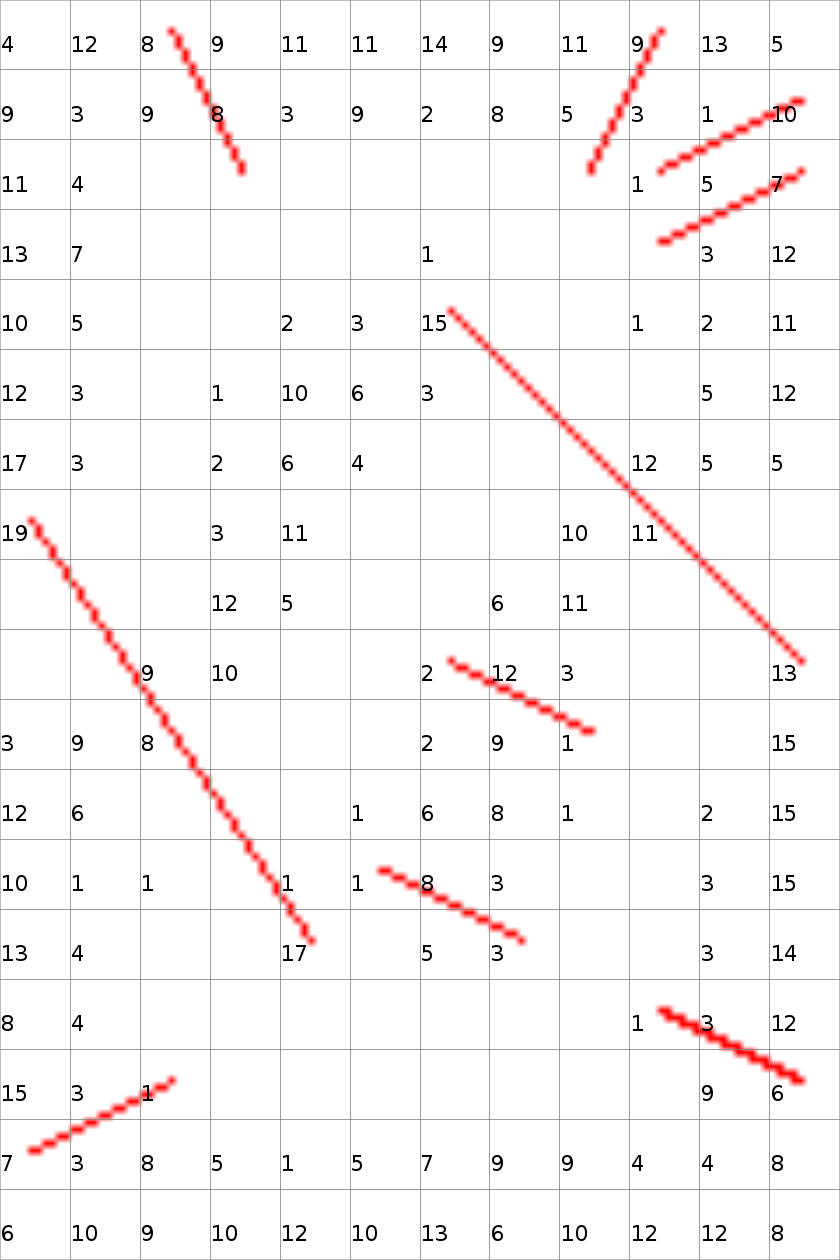
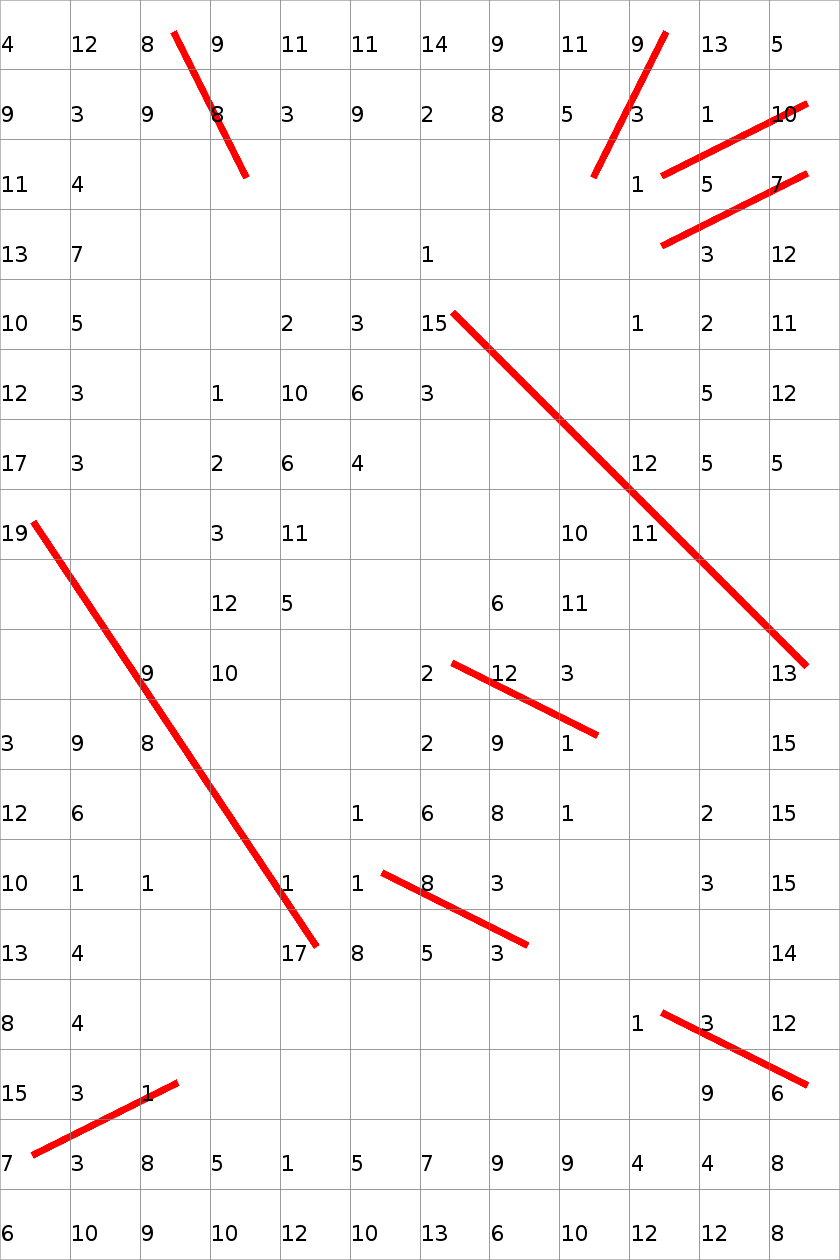
adjusted background of qe/mqe adjusted stroke size distortion added setVisualisationParameter exported some more images

diff --git a/ex3-protocol/main.tex b/ex3-protocol/main.tex
@@ -122,14 +122,16 @@ to mark the activation. It then updates the weight vector of every node by assig
 data samples in the neighborhood.
 
 Since the algorithms are so similar we decided not to duplicate the SOM training code contained in \lstinline!GrowingLayer! but
-rather just abstract the distance measures. Both strategies mentioned earlier solely rely on the distance measure in the grid geometry.
+rather just abstract the distance measures. The main advantage of our approach is that all features of the growing layer (such as adding and removing columns for a non static SOM) can now also be used with a hexagonal grid.
+
+Both strategies mentioned earlier solely rely on the distance measure in the grid geometry.
 Figure~\ref{fig:hci-coord-rect} illustrates the rectangular distance measurement.
 The inner dashed circle has an euclidean distance of $\sqrt{1} = 1$ to
 the unit center at position $(1,1)$. The geometry layout in the code does not calculate the distance from the center of
-the unit square, but from the corner (lower left). The distance for the second dashed circle has an euclidean distance of $\sqrt(2) \approx 1.14$ and finally the last circle has a distance from the unit (1/1) of $\sqrt{4} = 2$.
+the unit square, but from the corner (lower left). The distance for the second dashed circle has an euclidean distance of $\sqrt{2} \approx 1.14$ and finally the last circle has a distance from the unit (1/1) of $\sqrt{4} = 2$.
 
 To achieve the same distances in a hexagonal grid our approach is visualized in Figure~\ref{fig:hci-coord-hex}.
-The inner circle has a distance of $\sqrt{1} = 1$ to all of his 6 neighbors. To achieve this distance metric 
+The inner circle has a distance of $1$ to all of his 6 neighbors. To achieve this distance metric 
 we use the rectangular unit space which with an unit $u$ from any neighboring unit. The hexagon grid forces deformation
 of the shapes the following formulas are used to calculate the grid.
 
@@ -261,34 +263,65 @@ Figure~\ref{fig:hci-coord-hex} and~\ref{fig:hci-coord-rect} show the activation 
 
 \section{Visualisation}
 
+We have picked two data sets that we will compare in the Sections~\ref{sec:iris} and~\ref{sec:chain-link}. In the following we compiled a list of visualizations that we modified to work for both grid systems.
+
+\begin{itemize}
+	\item Activity Histogram
+	\item Hit Histogram
+	\item U-Matrix
+	\item D-Matrix
+	\item P-Matrix
+	\item Fuzzy Colouring
+	\item Neighbourhood Graph radius
+	\item Neighbourhood Graph KNN (K-nearest neighbour)
+	
+	\item Quantization Error
+	\item Mean Quantization Error
+	\item Topographic Error (4/8 units)
+\end{itemize}
+
+In every Figure we show the rectangular SOM on the left and the hexagonal on the right hand side.
 
 \newcommand{\cmprecthex}[5]
 {
-    \begin{figure}
-        \begin{subfigure}{0.49\linewidth}
-            \includegraphics*[width=\linewidth]{img/#1-#2}
-            \caption{#5}
-            \label{fig:#1-#2-rect}
-        \end{subfigure}
-        \begin{subfigure}{0.49\linewidth}
-            \includegraphics[width=\linewidth]{img/#1-#2-hex}
-            \caption{#4}
-            \label{fig:#1-#2-hex}
-        \end{subfigure}
-        \caption{#3}
-        \label{fig:#1-#2}
-    \end{figure}
+	\begin{figure}
+		\begin{subfigure}{0.49\linewidth}
+			\includegraphics*[width=\linewidth]{img/#1-#2}
+			\caption{#5}
+			\label{fig:#1-#2-rect}
+		\end{subfigure}
+		\begin{subfigure}{0.49\linewidth}
+			\includegraphics[width=\linewidth]{img/#1-#2-hex}
+			\caption{#4}
+			\label{fig:#1-#2-hex}
+		\end{subfigure}
+		\caption{#3}
+		\label{fig:#1-#2}
+	\end{figure}
 }
+
+
+\subsection{Iris}
+\label{sec:iris}
+
+\subsection{Chain Link}
+\label{sec:chain-link}
 
 \cmprecthex{cl}{activity}{Activity histogram. Default referent unit}{Hexagonal}{Rectangular}
 \cmprecthex{cl}{dmatrix}{D-Matrix}{Hexagonal}{Rectangular}
 \cmprecthex{cl}{pmatrix}{P-Matrix}{Hexagonal}{Rectangular}
 \cmprecthex{cl}{umatrix}{U-Matrix}{Hexagonal}{Rectangular}
 \cmprecthex{cl}{dist}{Distortion}{Hexagonal}{Rectangular}
-\cmprecthex{cl}{qe}{Distortion}{Hexagonal}{Rectangular}
-\cmprecthex{cl}{mqe}{Distortion}{Hexagonal}{Rectangular}
+\cmprecthex{cl}{qe}{QE}{Hexagonal}{Rectangular}
+\cmprecthex{cl}{mqe}{MQE}{Hexagonal}{Rectangular}
 \cmprecthex{cl}{mqe}{Topo 4}{Hexagonal}{Rectangular}
 \cmprecthex{cl}{fuzzy-colouring}{Fuzzy coloring}{Hexagonal}{Rectangular}
+\cmprecthex{cl}{nh-knn-1}{Neighbourhood KNN 1}{Hexagonal}{Rectangular}
+\cmprecthex{cl}{nh-knn-2}{Neighbourhood KNN 2}{Hexagonal}{Rectangular}
+\cmprecthex{cl}{nh-knn-3}{Neighbourhood KNN 3}{Hexagonal}{Rectangular}
+\cmprecthex{cl}{nh-radius-0,1}{Neighbourhood Graph Radius 0.1}{Hexagonal}{Rectangular}
+\cmprecthex{cl}{nh-radius-0,2}{Neighbourhood Graph Radius 0.2}{Hexagonal}{Rectangular}
+\cmprecthex{cl}{nh-radius-0,3}{Neighbourhood Graph Radius 0.3}{Hexagonal}{Rectangular}
 
 
 

diff --git a/ex3/src/core/at/tuwien/ifs/somtoolbox/visualization/MappingDistortionVisualizer.java b/ex3/src/core/at/tuwien/ifs/somtoolbox/visualization/MappingDistortionVisualizer.java
@@ -17,9 +17,7 @@
  */
 package at.tuwien.ifs.somtoolbox.visualization;
 
-import java.awt.BasicStroke;
-import java.awt.Color;
-import java.awt.Graphics2D;
+import java.awt.*;
 import java.awt.geom.Line2D;
 import java.awt.image.BufferedImage;
 
@@ -30,6 +28,7 @@ import at.tuwien.ifs.somtoolbox.data.SOMVisualisationData;
 import at.tuwien.ifs.somtoolbox.layers.Unit;
 import at.tuwien.ifs.somtoolbox.layers.grid.GridGeometry;
 import at.tuwien.ifs.somtoolbox.models.GrowingSOM;
+import at.tuwien.ifs.somtoolbox.util.ImageUtils;
 
 /**
  * @author Michael Dittenbach
@@ -74,11 +73,8 @@ public class MappingDistortionVisualizer extends AbstractBackgroundImageVisualiz
         // future?
         // FIXME: sparsity!!!!!!!!!!!!!!!!!!!!!!!!!!!
 
-        BufferedImage res = new BufferedImage(width, height, BufferedImage.TYPE_INT_RGB);
+        BufferedImage res = ImageUtils.createEmptyImage(width, height);
         Graphics2D g = (Graphics2D) res.getGraphics();
-        g.setColor(Color.WHITE);
-        g.setPaint(Color.WHITE);
-        g.fillRect(0, 0, width, height);
 
         GridGeometry helper = gsom.getLayer().getGridGeometry();
 
@@ -86,7 +82,7 @@ public class MappingDistortionVisualizer extends AbstractBackgroundImageVisualiz
         double unitHeight = helper.adjustUnitHeight(MapPNode.DEFAULT_UNIT_WIDTH, MapPNode.DEFAULT_UNIT_HEIGHT) / getPreferredScaleFactor();
 
         g.setColor(Color.RED);
-        g.setStroke(new BasicStroke(0.3f));
+        g.setStroke(new BasicStroke((float) (unitWidth/10)));
         for (int d = 0; d < data.numVectors(); d++) {
             Unit[] winners = gsom.getLayer().getWinners(data.getInputDatum(d), 2);
             if (helper.getMapDistance(winners[0], winners[1]) > Math.sqrt(2)) {
@@ -105,11 +101,8 @@ public class MappingDistortionVisualizer extends AbstractBackgroundImageVisualiz
         }
         // FIXME: sparsity!!!!!!!!!!!!!!!!!!!!!!!!!!!
 
-        BufferedImage res = new BufferedImage(width, height, BufferedImage.TYPE_INT_RGB);
+        BufferedImage res = ImageUtils.createEmptyImage(width, height);
         Graphics2D g = (Graphics2D) res.getGraphics();
-        g.setColor(Color.WHITE);
-        g.setPaint(Color.WHITE);
-        g.fillRect(0, 0, width, height);
 
         GridGeometry helper = gsom.getLayer().getGridGeometry();
 
@@ -117,7 +110,7 @@ public class MappingDistortionVisualizer extends AbstractBackgroundImageVisualiz
         double unitHeight = helper.adjustUnitHeight(MapPNode.DEFAULT_UNIT_WIDTH, MapPNode.DEFAULT_UNIT_HEIGHT) / getPreferredScaleFactor();
 
         g.setColor(Color.RED);
-        g.setStroke(new BasicStroke(0.3f));
+        g.setStroke(new BasicStroke((float) (unitWidth/10)));
         for (int d = 0; d < data.numVectors(); d++) {
             Unit[] winners = gsom.getLayer().getWinners(data.getInputDatum(d), 3);
             if (helper.getMapDistance(winners[0], winners[1]) > helper.getMapDistance(winners[0], winners[2])) {

diff --git a/ex3/src/core/at/tuwien/ifs/somtoolbox/visualization/QuantizationErrorVisualizer.java b/ex3/src/core/at/tuwien/ifs/somtoolbox/visualization/QuantizationErrorVisualizer.java
@@ -29,6 +29,7 @@ import at.tuwien.ifs.somtoolbox.layers.grid.GridGeometry;
 import at.tuwien.ifs.somtoolbox.layers.quality.QualityMeasureNotFoundException;
 import at.tuwien.ifs.somtoolbox.layers.quality.QuantizationError;
 import at.tuwien.ifs.somtoolbox.models.GrowingSOM;
+import at.tuwien.ifs.somtoolbox.util.ImageUtils;
 
 /**
  * Visualization of some aspects of Quantization Error <br>
@@ -104,7 +105,7 @@ public class QuantizationErrorVisualizer extends AbstractMatrixVisualizer implem
         minimumMatrixValue = minQE;
         maximumMatrixValue = maxQE;
 
-        BufferedImage res = new BufferedImage(width, height, BufferedImage.TYPE_INT_RGB);
+        BufferedImage res = ImageUtils.createEmptyImage(width, height);
         Graphics2D g = (Graphics2D) res.getGraphics();
 
         GridGeometry helper = gsom.getLayer().getGridGeometry();
@@ -170,7 +171,7 @@ public class QuantizationErrorVisualizer extends AbstractMatrixVisualizer implem
         minimumMatrixValue = minMQE;
         maximumMatrixValue = maxMQE;
 
-        BufferedImage res = new BufferedImage(width, height, BufferedImage.TYPE_INT_RGB);
+        BufferedImage res = ImageUtils.createEmptyImage(width, height);
         Graphics2D g = (Graphics2D) res.getGraphics();
 
         GridGeometry helper = gsom.getLayer().getGridGeometry();

diff --git a/ex3/src/core/at/tuwien/ifs/somtoolbox/visualization/NeighbourhoodGraph.java b/ex3/src/core/at/tuwien/ifs/somtoolbox/visualization/NeighbourhoodGraph.java
@@ -32,6 +32,7 @@ import javax.swing.SpinnerNumberModel;
 import javax.swing.event.ChangeEvent;
 import javax.swing.event.ChangeListener;
 
+import at.tuwien.ifs.commons.gui.jsap.IntegerEditor;
 import at.tuwien.ifs.somtoolbox.apps.viewer.MapPNode;
 import at.tuwien.ifs.somtoolbox.layers.grid.GridGeometry;
 import org.apache.commons.math.util.MathUtils;
@@ -195,6 +196,12 @@ public class NeighbourhoodGraph extends AbstractBackgroundImageVisualizer {
         }
 
         return res;
+    }
+
+    @Override
+    public void setVisualizationParameter(String parameter) {
+        radius = Double.parseDouble(parameter);
+        k = ((int) radius);
     }
 
     /**

diff --git a/ex3/src/core/at/tuwien/ifs/somtoolbox/visualization/BackgroundImageVisualizer.java b/ex3/src/core/at/tuwien/ifs/somtoolbox/visualization/BackgroundImageVisualizer.java
@@ -116,6 +116,12 @@ public interface BackgroundImageVisualizer extends Comparable<BackgroundImageVis
     public VisualizationControlPanel getControlPanel();
 
     /**
+     * Set the parameters for this visualization.
+     * @param parameter
+     */
+    public void setVisualizationParameter(String parameter);
+
+    /**
      * Checks whether this visualisation still needs some input files to generate an image.
      * 
      * @return an array containing the names of the input objects needed

diff --git a/ex3/src/core/at/tuwien/ifs/somtoolbox/visualization/AbstractBackgroundImageVisualizer.java b/ex3/src/core/at/tuwien/ifs/somtoolbox/visualization/AbstractBackgroundImageVisualizer.java
@@ -147,6 +147,11 @@ public abstract class AbstractBackgroundImageVisualizer implements BackgroundIma
      */
     protected int preferredScaleFactor = DEFAULT_BACKGROUND_VISUALIZATION_SCALE;
 
+    @Override
+    public void setVisualizationParameter(String parameter) {
+        // empty. should be overwritten in the subclass
+    }
+
     /**
      * Initialises the control panel, if {@link GraphicsEnvironment#isHeadless()} reports to be in a non-headless
      * environment.

diff --git a/ex3/src/core/at/tuwien/ifs/somtoolbox/apps/viewer/SOMViewer.java b/ex3/src/core/at/tuwien/ifs/somtoolbox/apps/viewer/SOMViewer.java
@@ -665,6 +665,8 @@ public class SOMViewer extends MaximisedJFrame implements ActionListener, Observ
                             for (String string : soms) {
                                 compVis.addSOM(string);
                             }
+                        } else {
+                            initialVisualisation.setVisualizationParameter(initialVisParams);
                         }
                     }
 
